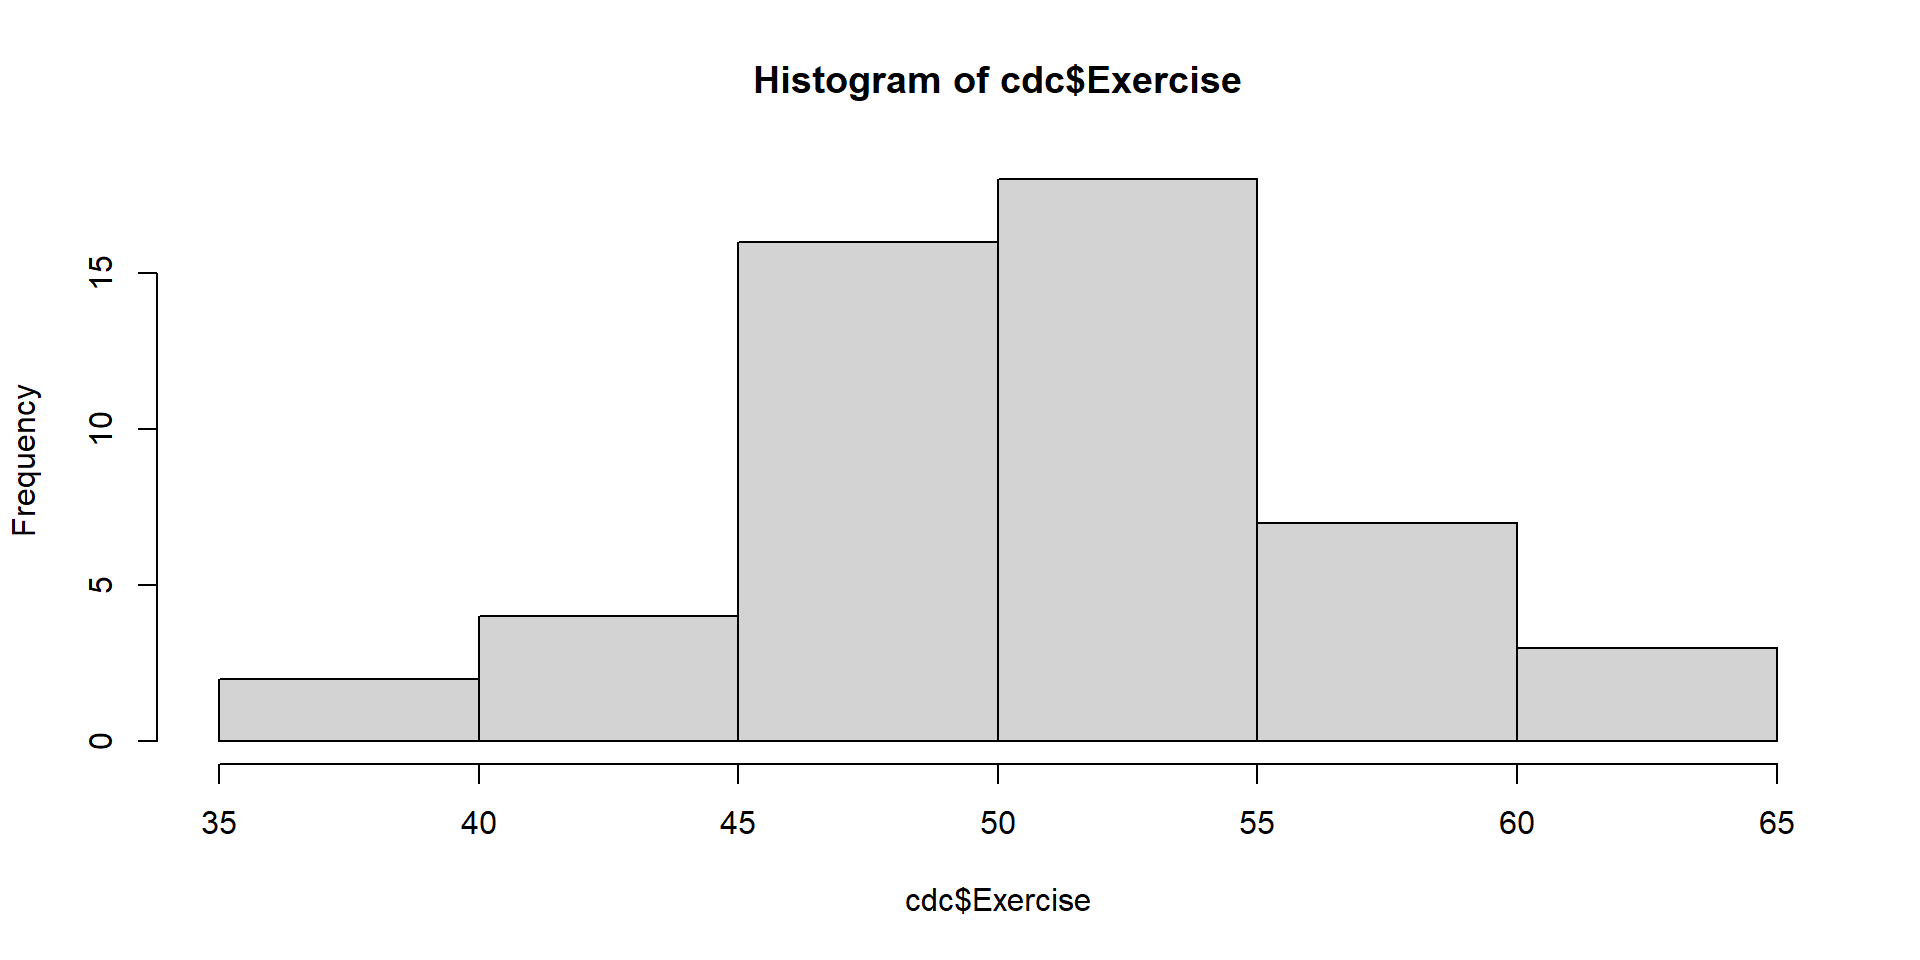
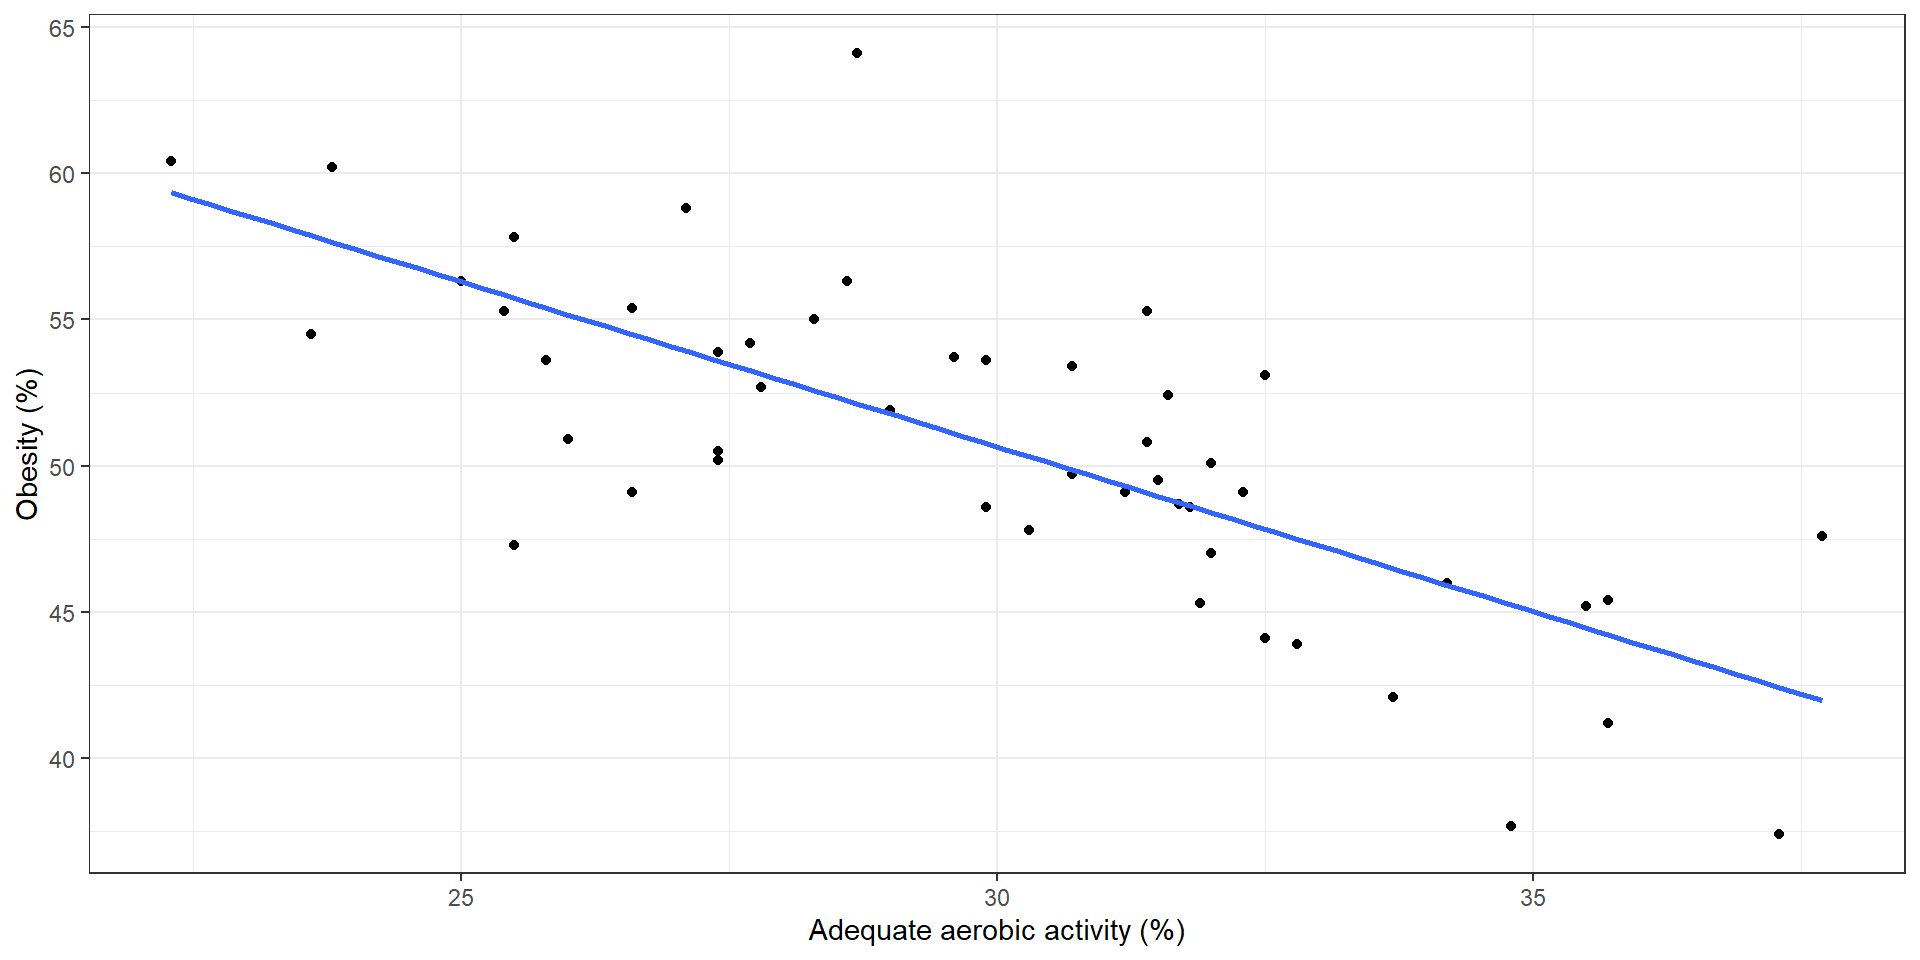
update class notes

diff --git a/slides/lec-17-linear-reg_AGH.html b/slides/lec-17-linear-reg_AGH.html
@@ -207,7 +207,7 @@
 <h2>Announcements</h2>
 <ul>
 <li><p>No HW until next week.</p></li>
-<li><p>Lab 7 (new lab) will be posted on April 6</p></li>
+<li><p>Lab 7 (new lab) today - due Friday April 10th</p></li>
 </ul>
 </section>
 <section id="uploading-an-excel-file" class="slide level2">
@@ -231,6 +231,105 @@
 <li>Let me or the TAs know if you need help reading in a data file.</li>
 </ul>
 </section>
+<section id="topics-covered-in-lab-today" class="slide level2">
+<h2>Topics covered in lab today</h2>
+<ul>
+<li>In lab today you’ll hear about two additional concepts
+<ul>
+<li>Partial correlation</li>
+<li>Spearman’s correlation coefficients</li>
+</ul></li>
+</ul>
+</section>
+<section id="partial-correlation" class="slide level2">
+<h2>Partial correlation</h2>
+<ul>
+<li><p>Let’s say I have an example of 100 adults, I have data on:</p>
+<ul>
+<li>Age (in years)</li>
+<li>Cognitive function score - ranging from 0-100</li>
+<li>Systolic blood pressure (SBP)</li>
+</ul></li>
+<li><p><strong>Is higher SBP is associated with lower cognitive scores?</strong></p></li>
+<li><p>We anticipate</p>
+<ul>
+<li>Older individuals have lower cognitive fuction scores</li>
+<li>Older individuals have higher SBP</li>
+</ul></li>
+</ul>
+</section>
+<section id="partial-correlation-1" class="slide level2">
+<h2>Partial correlation</h2>
+<ul>
+<li>Age could be a <strong>confounder</strong>
+<ul>
+<li>Age is associated with the exposure (SBP)</li>
+<li>Age is associated with the outcome (cognitive function)</li>
+</ul></li>
+<li>If I look at the association between sBP and cognitive function I might get a biased estimate
+<ul>
+<li>Could make it look like two things are related when they aren’t</li>
+<li>Could make the relationship look larger or smaller than it really is</li>
+</ul></li>
+</ul>
+</section>
+<section id="partial-correlation-2" class="slide level2">
+<h2>Partial correlation</h2>
+<ul>
+<li><p>We’ll get into more common methods (and a bit more detail on these ideas on Thursday)</p></li>
+<li><p>But <strong>partial correlation</strong> is one approach</p></li>
+<li><p>Isolates the direct association, preventing misleading results caused by confounding variables</p></li>
+<li><p>Partial correlation removes age’s influence from both variables, then asks - <strong>what’s left</strong></p></li>
+</ul>
+</section>
+<section id="partial-correlation-3" class="slide level2">
+<h2>Partial correlation</h2>
+<p>Here’s the example dataset, with age, sbp and cognitive function</p>
+<div class="cell">
+<div class="cell-output cell-output-stdout">
+<pre><code>  id age sbp cog
+1  1  77 127  86
+2  2  36 101  95
+3  3  42  99  87
+4  4  45  91  90
+5  5  38 100  97
+6  6  39  83  81</code></pre>
+</div>
+</div>
+</section>
+<section id="partial-correlation-4" class="slide level2">
+<h2>Partial correlation</h2>
+<p>Pearson correlation</p>
+<div class="cell">
+<div class="cell-output cell-output-stdout">
+<pre><code>[1] -0.3453696</code></pre>
+</div>
+</div>
+<p>Partial correlation</p>
+<div class="cell">
+<div class="cell-output cell-output-stdout">
+<pre><code>    estimate  p.value statistic   n gp  Method
+1 0.07222411 0.477442 0.7131875 100  1 pearson</code></pre>
+</div>
+</div>
+<p>measure the strength and direction of the linear relationship between two continuous variables while removing the influence of one or more additional control variables. It</p>
+</section>
+<section id="spearman-example" class="slide level2">
+<h2>Spearman example</h2>
+<ul>
+<li><p>Pearson is parameteric - using magnitude and values - hen x goes up, does y tend to go up?” — it doesn’t care how much. Pearson cares about the exact magnitudes</p></li>
+<li><p>Spearman is using ranks - when x goes up, does y tend to go up — it doesn’t care how much Monotonic vs.&nbsp;Linear: A linear relationship is monotonic (constantly increasing/decreasing), but a monotonic relationship is not necessarily linear (e.g., exponential growth). Spearman detects both. Rank Transformation: By converting raw data to ranks, it assesses if ranks align, ignoring the magnitude of differences between values. Robustness: Because it uses ranks, it is less sensitive to extreme outliers than Pearson’s correlation. When to Use: Use Spearman for ordinal data, skewed data, or non-linear monotonic data. Handbook of Biological Statistics Handbook of Biological Statistics +5 While Spearman can detect linear relationships (if the data is linear, it is also monotonic), its primary advantage is assessing non-linear, monotonic associations</p></li>
+</ul>
+<p>*** for quadratric no** but for this case** yes <strong>give example of exponetntial</strong> <strong>less robust to outliers</strong></p>
+<div class="cell">
+<div class="cell-output cell-output-stdout">
+<pre><code>[1] 0.6032796</code></pre>
+</div>
+<div class="cell-output cell-output-stdout">
+<pre><code>[1] 0.9695302</code></pre>
+</div>
+</div>
+</section>
 <section id="reading" class="slide level2">
 <h2>Reading</h2>
 <ul>
@@ -241,7 +340,7 @@
 <section id="back-to-lab-2" class="slide level2">
 <h2>Back to Lab 2…</h2>
 
-<img data-src="lec-17-linear-reg_AGH_files/figure-revealjs/unnamed-chunk-3-1.png" width="960" class="r-stretch"></section>
+<img data-src="lec-17-linear-reg_AGH_files/figure-revealjs/unnamed-chunk-8-1.png" width="960" class="r-stretch"></section>
 <section id="correlation-and-regression" class="slide level2 smaller">
 <h2>Correlation and regression</h2>
 <ul>
@@ -264,7 +363,7 @@
 <section id="back-to-lab-2-1" class="slide level2 smaller">
 <h2>Back to Lab 2…</h2>
 
-<img data-src="lec-17-linear-reg_AGH_files/figure-revealjs/unnamed-chunk-4-1.png" width="960" class="r-stretch"><ul>
+<img data-src="lec-17-linear-reg_AGH_files/figure-revealjs/unnamed-chunk-9-1.png" width="960" class="r-stretch"><ul>
 <li><p>We see the regression line relating exercise and obesity %</p></li>
 <li><p>Points represent actual data values; note that the line is not a perfect fit</p></li>
 </ul>
@@ -272,13 +371,13 @@
 <section id="code-for-previous-slide" class="slide level2">
 <h2>Code for previous slide</h2>
 <div class="cell">
-<div class="code-copy-outer-scaffold"><div class="sourceCode cell-code" id="cb2"><pre class="sourceCode numberSource r number-lines code-with-copy"><code class="sourceCode r"><span id="cb2-1"><a href=""></a>cdc <span class="sc">|&gt;</span></span>
-<span id="cb2-2"><a href=""></a>  <span class="fu">ggplot</span>(<span class="fu">aes</span>(<span class="at">x =</span> Obesity, <span class="at">y =</span> Exercise)) <span class="sc">+</span></span>
-<span id="cb2-3"><a href=""></a>  <span class="fu">geom_point</span>() <span class="sc">+</span></span>
-<span id="cb2-4"><a href=""></a>  <span class="fu">theme_bw</span>() <span class="sc">+</span></span>
-<span id="cb2-5"><a href=""></a>  <span class="fu">labs</span>(<span class="at">x =</span> <span class="st">"Adequate aerobic activity (%)"</span>, </span>
-<span id="cb2-6"><a href=""></a>       <span class="at">y =</span> <span class="st">"Obesity (%)"</span>) <span class="sc">+</span></span>
-<span id="cb2-7"><a href=""></a>  <span class="fu">geom_smooth</span>(<span class="at">method =</span> <span class="st">"lm"</span>, <span class="at">se =</span> F) </span></code></pre></div><button title="Copy to Clipboard" class="code-copy-button"><i class="bi"></i></button></div>
+<div class="code-copy-outer-scaffold"><div class="sourceCode cell-code" id="cb7"><pre class="sourceCode numberSource r number-lines code-with-copy"><code class="sourceCode r"><span id="cb7-1"><a href=""></a>cdc <span class="sc">|&gt;</span></span>
+<span id="cb7-2"><a href=""></a>  <span class="fu">ggplot</span>(<span class="fu">aes</span>(<span class="at">x =</span> Obesity, <span class="at">y =</span> Exercise)) <span class="sc">+</span></span>
+<span id="cb7-3"><a href=""></a>  <span class="fu">geom_point</span>() <span class="sc">+</span></span>
+<span id="cb7-4"><a href=""></a>  <span class="fu">theme_bw</span>() <span class="sc">+</span></span>
+<span id="cb7-5"><a href=""></a>  <span class="fu">labs</span>(<span class="at">x =</span> <span class="st">"Adequate aerobic activity (%)"</span>, </span>
+<span id="cb7-6"><a href=""></a>       <span class="at">y =</span> <span class="st">"Obesity (%)"</span>) <span class="sc">+</span></span>
+<span id="cb7-7"><a href=""></a>  <span class="fu">geom_smooth</span>(<span class="at">method =</span> <span class="st">"lm"</span>, <span class="at">se =</span> F) </span></code></pre></div><button title="Copy to Clipboard" class="code-copy-button"><i class="bi"></i></button></div>
 </div>
 </section>
 <section id="the-linear-model" class="slide level2">
@@ -337,8 +436,8 @@
 <section id="model-output" class="slide level2 smaller">
 <h2>Model output</h2>
 <div class="cell">
-<div class="code-copy-outer-scaffold"><div class="sourceCode cell-code" id="cb3"><pre class="sourceCode numberSource r number-lines code-with-copy"><code class="sourceCode r"><span id="cb3-1"><a href=""></a>fit <span class="ot">&lt;-</span> <span class="fu">lm</span>(Obesity <span class="sc">~</span> Exercise, <span class="at">data =</span> cdc)</span>
-<span id="cb3-2"><a href=""></a><span class="fu">summary</span>(fit)</span></code></pre></div><button title="Copy to Clipboard" class="code-copy-button"><i class="bi"></i></button></div>
+<div class="code-copy-outer-scaffold"><div class="sourceCode cell-code" id="cb8"><pre class="sourceCode numberSource r number-lines code-with-copy"><code class="sourceCode r"><span id="cb8-1"><a href=""></a>fit <span class="ot">&lt;-</span> <span class="fu">lm</span>(Obesity <span class="sc">~</span> Exercise, <span class="at">data =</span> cdc)</span>
+<span id="cb8-2"><a href=""></a><span class="fu">summary</span>(fit)</span></code></pre></div><button title="Copy to Clipboard" class="code-copy-button"><i class="bi"></i></button></div>
 <div class="cell-output cell-output-stdout">
 <pre><code>
 Call:
@@ -364,11 +463,11 @@ F-statistic: 59.25 on 1 and 48 DF,  p-value: 6.336e-10</code></pre>
 <section id="a-neater-way" class="slide level2">
 <h2>A neater way</h2>
 <div class="cell">
-<div class="code-copy-outer-scaffold"><div class="sourceCode cell-code" id="cb5"><pre class="sourceCode numberSource r number-lines code-with-copy"><code class="sourceCode r"><span id="cb5-1"><a href=""></a><span class="fu">library</span>(tidymodels)</span>
-<span id="cb5-2"><a href=""></a><span class="fu">library</span>(kableExtra)</span>
-<span id="cb5-3"><a href=""></a></span>
-<span id="cb5-4"><a href=""></a><span class="fu">tidy</span>(fit) <span class="sc">|&gt;</span></span>
-<span id="cb5-5"><a href=""></a>  <span class="fu">kable</span>()</span></code></pre></div><button title="Copy to Clipboard" class="code-copy-button"><i class="bi"></i></button></div>
+<div class="code-copy-outer-scaffold"><div class="sourceCode cell-code" id="cb10"><pre class="sourceCode numberSource r number-lines code-with-copy"><code class="sourceCode r"><span id="cb10-1"><a href=""></a><span class="fu">library</span>(tidymodels)</span>
+<span id="cb10-2"><a href=""></a><span class="fu">library</span>(kableExtra)</span>
+<span id="cb10-3"><a href=""></a></span>
+<span id="cb10-4"><a href=""></a><span class="fu">tidy</span>(fit) <span class="sc">|&gt;</span></span>
+<span id="cb10-5"><a href=""></a>  <span class="fu">kable</span>()</span></code></pre></div><button title="Copy to Clipboard" class="code-copy-button"><i class="bi"></i></button></div>
 <div class="cell-output-display">
 <table class="caption-top">
 <thead>
@@ -406,8 +505,8 @@ F-statistic: 59.25 on 1 and 48 DF,  p-value: 6.336e-10</code></pre>
 <section id="even-better" class="slide level2">
 <h2>Even better</h2>
 <div class="cell">
-<div class="code-copy-outer-scaffold"><div class="sourceCode cell-code" id="cb6"><pre class="sourceCode numberSource r number-lines code-with-copy"><code class="sourceCode r"><span id="cb6-1"><a href=""></a><span class="fu">tidy</span>(fit) <span class="sc">|&gt;</span></span>
-<span id="cb6-2"><a href=""></a>  <span class="fu">kable</span>(<span class="at">digits =</span> <span class="dv">3</span>) <span class="co"># round to 3 digits</span></span></code></pre></div><button title="Copy to Clipboard" class="code-copy-button"><i class="bi"></i></button></div>
+<div class="code-copy-outer-scaffold"><div class="sourceCode cell-code" id="cb11"><pre class="sourceCode numberSource r number-lines code-with-copy"><code class="sourceCode r"><span id="cb11-1"><a href=""></a><span class="fu">tidy</span>(fit) <span class="sc">|&gt;</span></span>
+<span id="cb11-2"><a href=""></a>  <span class="fu">kable</span>(<span class="at">digits =</span> <span class="dv">3</span>) <span class="co"># round to 3 digits</span></span></code></pre></div><button title="Copy to Clipboard" class="code-copy-button"><i class="bi"></i></button></div>
 <div class="cell-output-display">
 <table class="caption-top">
 <thead>
@@ -493,14 +592,14 @@ F-statistic: 59.25 on 1 and 48 DF,  p-value: 6.336e-10</code></pre>
 <section id="lets-check" class="slide level2">
 <h2>Let’s check</h2>
 <div class="cell">
-<div class="code-copy-outer-scaffold"><div class="sourceCode cell-code" id="cb7"><pre class="sourceCode numberSource r number-lines code-with-copy"><code class="sourceCode r"><span id="cb7-1"><a href=""></a><span class="fu">hist</span>(cdc<span class="sc">$</span>Exercise)</span></code></pre></div><button title="Copy to Clipboard" class="code-copy-button"><i class="bi"></i></button></div>
+<div class="code-copy-outer-scaffold"><div class="sourceCode cell-code" id="cb12"><pre class="sourceCode numberSource r number-lines code-with-copy"><code class="sourceCode r"><span id="cb12-1"><a href=""></a><span class="fu">hist</span>(cdc<span class="sc">$</span>Exercise)</span></code></pre></div><button title="Copy to Clipboard" class="code-copy-button"><i class="bi"></i></button></div>
 
 </div>
-<img data-src="lec-17-linear-reg_AGH_files/figure-revealjs/unnamed-chunk-9-1.png" width="960" class="r-stretch"></section>
+<img data-src="lec-17-linear-reg_AGH_files/figure-revealjs/unnamed-chunk-14-1.png" width="960" class="r-stretch"></section>
 <section id="lets-check-1" class="slide level2">
 <h2>Let’s check</h2>
 <div class="cell">
-<div class="code-copy-outer-scaffold"><div class="sourceCode cell-code" id="cb8"><pre class="sourceCode numberSource r number-lines code-with-copy"><code class="sourceCode r"><span id="cb8-1"><a href=""></a><span class="fu">min</span>(cdc<span class="sc">$</span>Exercise)</span></code></pre></div><button title="Copy to Clipboard" class="code-copy-button"><i class="bi"></i></button></div>
+<div class="code-copy-outer-scaffold"><div class="sourceCode cell-code" id="cb13"><pre class="sourceCode numberSource r number-lines code-with-copy"><code class="sourceCode r"><span id="cb13-1"><a href=""></a><span class="fu">min</span>(cdc<span class="sc">$</span>Exercise)</span></code></pre></div><button title="Copy to Clipboard" class="code-copy-button"><i class="bi"></i></button></div>
 <div class="cell-output cell-output-stdout">
 <pre><code>[1] 37.4</code></pre>
 </div>
@@ -571,7 +670,7 @@ F-statistic: 59.25 on 1 and 48 DF,  p-value: 6.336e-10</code></pre>
 <section id="some-additional-output" class="slide level2 smaller">
 <h2>Some additional output</h2>
 <div class="cell">
-<div class="code-copy-outer-scaffold"><div class="sourceCode cell-code" id="cb10"><pre class="sourceCode numberSource r number-lines code-with-copy"><code class="sourceCode r"><span id="cb10-1"><a href=""></a><span class="fu">summary</span>(fit)<span class="sc">$</span>r.squared</span></code></pre></div><button title="Copy to Clipboard" class="code-copy-button"><i class="bi"></i></button></div>
+<div class="code-copy-outer-scaffold"><div class="sourceCode cell-code" id="cb15"><pre class="sourceCode numberSource r number-lines code-with-copy"><code class="sourceCode r"><span id="cb15-1"><a href=""></a><span class="fu">summary</span>(fit)<span class="sc">$</span>r.squared</span></code></pre></div><button title="Copy to Clipboard" class="code-copy-button"><i class="bi"></i></button></div>
 <div class="cell-output cell-output-stdout">
 <pre><code>[1] 0.55243</code></pre>
 </div>
